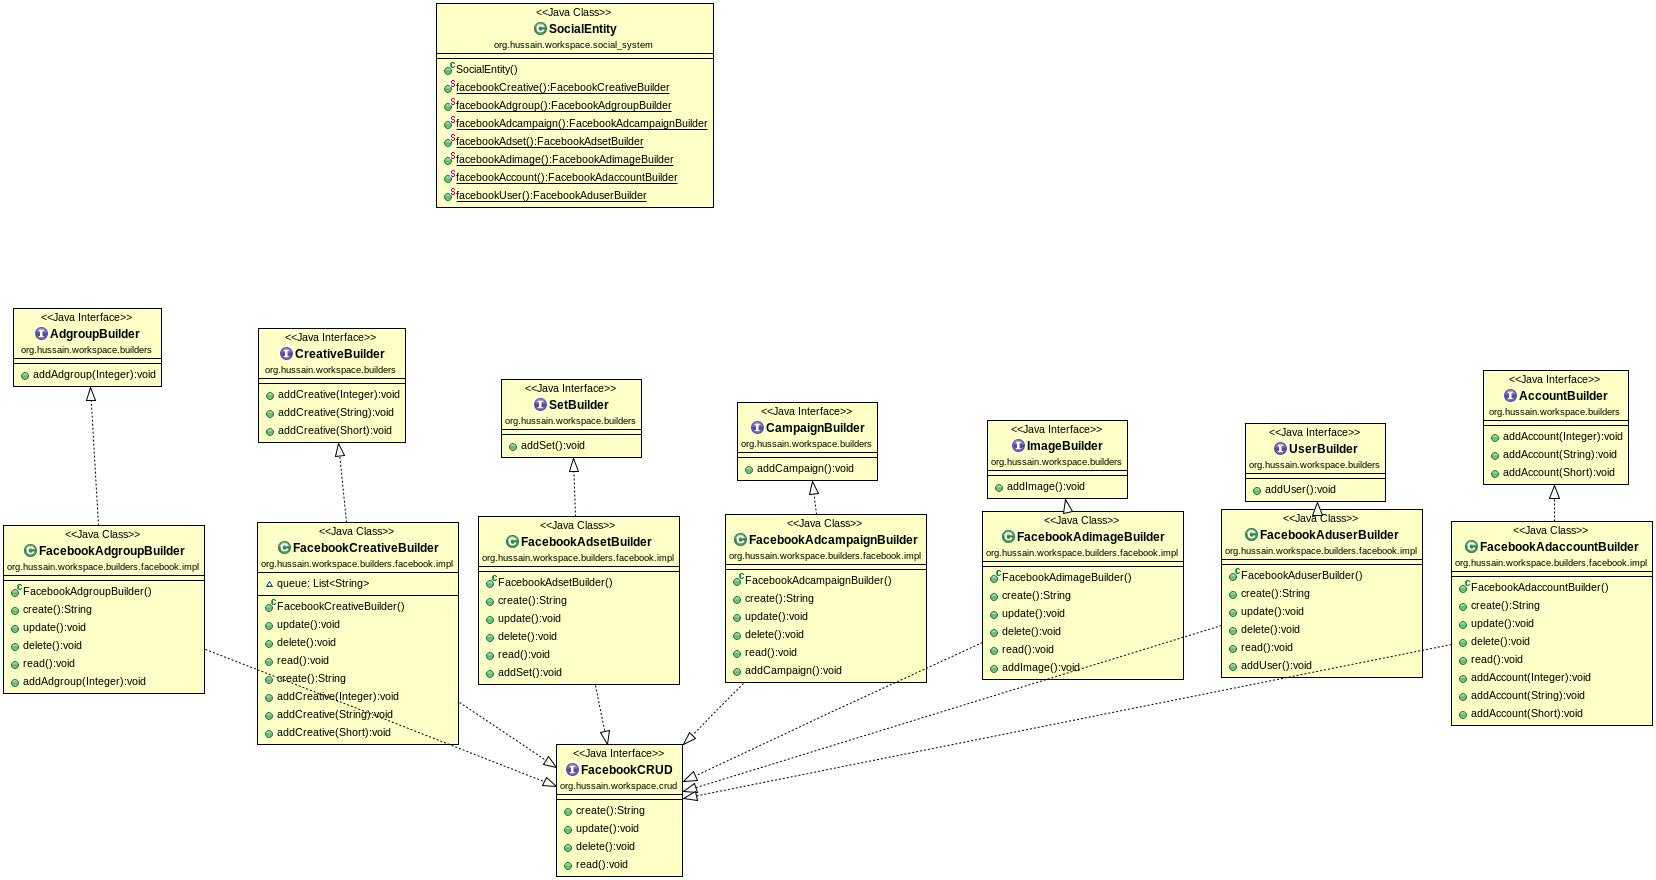
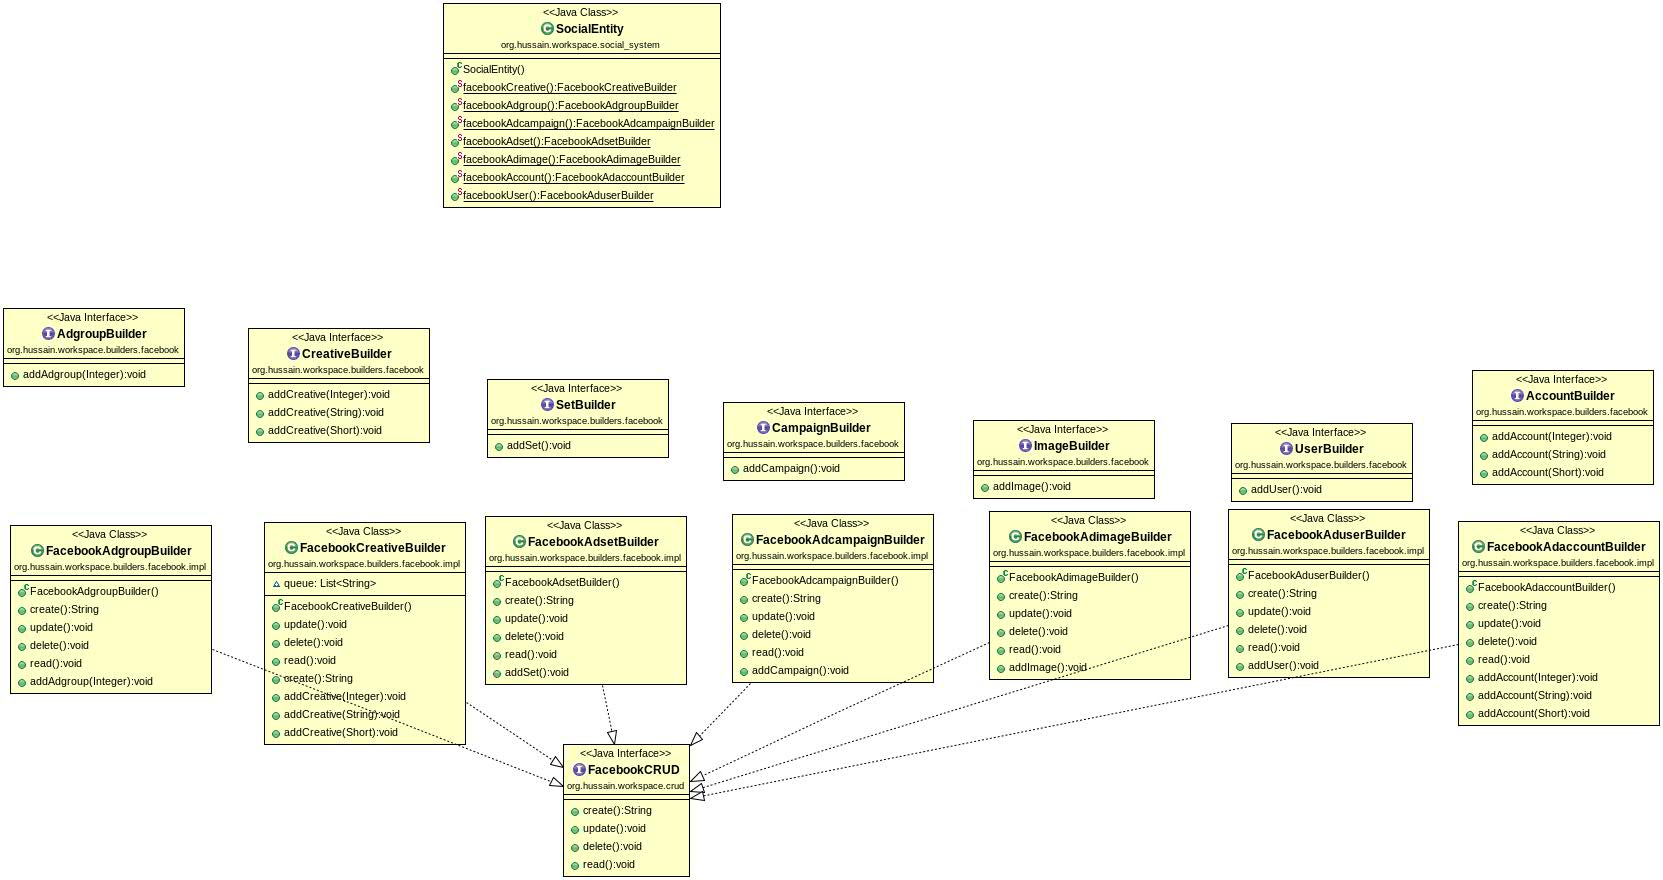
Created Social-System Project to connect Facebook Ads API.

diff --git a/social-system/src/main/java/org/hussain/workspace/social_system/SocialEntity.java b/social-system/src/main/java/org/hussain/workspace/social_system/SocialEntity.java
@@ -1,12 +1,12 @@
 package org.hussain.workspace.social_system;
 
-import org.hussain.workspace.builders.facebook.facebook.impl.FacebookAdaccountBuilder;
-import org.hussain.workspace.builders.facebook.facebook.impl.FacebookAdcampaignBuilder;
-import org.hussain.workspace.builders.facebook.facebook.impl.FacebookAdgroupBuilder;
-import org.hussain.workspace.builders.facebook.facebook.impl.FacebookAdimageBuilder;
-import org.hussain.workspace.builders.facebook.facebook.impl.FacebookAdsetBuilder;
-import org.hussain.workspace.builders.facebook.facebook.impl.FacebookAduserBuilder;
-import org.hussain.workspace.builders.facebook.facebook.impl.FacebookCreativeBuilder;
+import org.hussain.workspace.builders.facebook.impl.FacebookAdaccountBuilder;
+import org.hussain.workspace.builders.facebook.impl.FacebookAdcampaignBuilder;
+import org.hussain.workspace.builders.facebook.impl.FacebookAdgroupBuilder;
+import org.hussain.workspace.builders.facebook.impl.FacebookAdimageBuilder;
+import org.hussain.workspace.builders.facebook.impl.FacebookAdsetBuilder;
+import org.hussain.workspace.builders.facebook.impl.FacebookAduserBuilder;
+import org.hussain.workspace.builders.facebook.impl.FacebookCreativeBuilder;
 
 public class SocialEntity {
 	public static FacebookCreativeBuilder facebookCreative() {

diff --git a/social-system/src/main/java/org/hussain/workspace/builders/facebook/impl/FacebookAdgroupBuilder.java b/social-system/src/main/java/org/hussain/workspace/builders/facebook/impl/FacebookAdgroupBuilder.java
@@ -1,9 +1,9 @@
-package org.hussain.workspace.builders.facebook.facebook.impl;
+package org.hussain.workspace.builders.facebook.impl;
 
-import org.hussain.workspace.builders.facebook.CampaignBuilder;
+import org.hussain.workspace.builders.facebook.AdgroupBuilder;
 import org.hussain.workspace.crud.FacebookCRUD;
 
-public class FacebookAdcampaignBuilder implements FacebookCRUD, CampaignBuilder{
+public class FacebookAdgroupBuilder implements FacebookCRUD, AdgroupBuilder {
 
 	public String create() {
 		// TODO Auto-generated method stub
@@ -12,22 +12,22 @@ public class FacebookAdcampaignBuilder implements FacebookCRUD, CampaignBuilder{
 
 	public void update() {
 		// TODO Auto-generated method stub
-		
+
 	}
 
 	public void delete() {
 		// TODO Auto-generated method stub
-		
+
 	}
 
 	public void read() {
 		// TODO Auto-generated method stub
-		
+
 	}
 
-	public void addCampaign() {
+	public void addAdgroup(Integer a) {
 		// TODO Auto-generated method stub
-		
+
 	}
 
 }

diff --git a/social-system/src/main/java/org/hussain/workspace/builders/facebook/impl/FacebookAdimageBuilder.java b/social-system/src/main/java/org/hussain/workspace/builders/facebook/impl/FacebookAdimageBuilder.java
@@ -1,9 +1,9 @@
-package org.hussain.workspace.builders.facebook.facebook.impl;
+package org.hussain.workspace.builders.facebook.impl;
 
-import org.hussain.workspace.builders.facebook.AdgroupBuilder;
+import org.hussain.workspace.builders.facebook.ImageBuilder;
 import org.hussain.workspace.crud.FacebookCRUD;
 
-public class FacebookAdgroupBuilder implements FacebookCRUD, AdgroupBuilder {
+public class FacebookAdimageBuilder implements FacebookCRUD, ImageBuilder{
 
 	public String create() {
 		// TODO Auto-generated method stub
@@ -12,22 +12,22 @@ public class FacebookAdgroupBuilder implements FacebookCRUD, AdgroupBuilder {
 
 	public void update() {
 		// TODO Auto-generated method stub
-
+		
 	}
 
 	public void delete() {
 		// TODO Auto-generated method stub
-
+		
 	}
 
 	public void read() {
 		// TODO Auto-generated method stub
-
+		
 	}
 
-	public void addAdgroup(Integer a) {
+	public void addImage() {
 		// TODO Auto-generated method stub
-
+		
 	}
 
 }

diff --git a/social-system/src/main/java/org/hussain/workspace/builders/facebook/impl/FacebookAdcampaignBuilder.java b/social-system/src/main/java/org/hussain/workspace/builders/facebook/impl/FacebookAdcampaignBuilder.java
@@ -1,9 +1,9 @@
-package org.hussain.workspace.builders.facebook.facebook.impl;
+package org.hussain.workspace.builders.facebook.impl;
 
-import org.hussain.workspace.builders.facebook.SetBuilder;
+import org.hussain.workspace.builders.facebook.CampaignBuilder;
 import org.hussain.workspace.crud.FacebookCRUD;
 
-public class FacebookAdsetBuilder implements FacebookCRUD, SetBuilder{
+public class FacebookAdcampaignBuilder implements FacebookCRUD, CampaignBuilder{
 
 	public String create() {
 		// TODO Auto-generated method stub
@@ -25,7 +25,7 @@ public class FacebookAdsetBuilder implements FacebookCRUD, SetBuilder{
 		
 	}
 
-	public void addSet() {
+	public void addCampaign() {
 		// TODO Auto-generated method stub
 		
 	}

diff --git a/social-system/src/main/java/org/hussain/workspace/builders/facebook/impl/FacebookAdsetBuilder.java b/social-system/src/main/java/org/hussain/workspace/builders/facebook/impl/FacebookAdsetBuilder.java
@@ -1,9 +1,9 @@
-package org.hussain.workspace.builders.facebook.facebook.impl;
+package org.hussain.workspace.builders.facebook.impl;
 
-import org.hussain.workspace.builders.facebook.ImageBuilder;
+import org.hussain.workspace.builders.facebook.SetBuilder;
 import org.hussain.workspace.crud.FacebookCRUD;
 
-public class FacebookAdimageBuilder implements FacebookCRUD, ImageBuilder{
+public class FacebookAdsetBuilder implements FacebookCRUD, SetBuilder{
 
 	public String create() {
 		// TODO Auto-generated method stub
@@ -25,7 +25,7 @@ public class FacebookAdimageBuilder implements FacebookCRUD, ImageBuilder{
 		
 	}
 
-	public void addImage() {
+	public void addSet() {
 		// TODO Auto-generated method stub
 		
 	}

diff --git a/social-system/src/test/java/org/hussain/workspace/social_system/CreativeBuilderTest.java b/social-system/src/test/java/org/hussain/workspace/social_system/CreativeBuilderTest.java
@@ -1,7 +1,7 @@
 package org.hussain.workspace.social_system;
 
-import org.hussain.workspace.builders.facebook.facebook.impl.FacebookAdgroupBuilder;
-import org.hussain.workspace.builders.facebook.facebook.impl.FacebookCreativeBuilder;
+import org.hussain.workspace.builders.facebook.impl.FacebookAdgroupBuilder;
+import org.hussain.workspace.builders.facebook.impl.FacebookCreativeBuilder;
 import org.hussain.workspace.social_system.SocialEntity;
 
 public class CreativeBuilderTest {

diff --git a/social-system/src/main/java/org/hussain/workspace/builders/facebook/impl/FacebookAdaccountBuilder.java b/social-system/src/main/java/org/hussain/workspace/builders/facebook/impl/FacebookAdaccountBuilder.java
@@ -1,4 +1,4 @@
-package org.hussain.workspace.builders.facebook.facebook.impl;
+package org.hussain.workspace.builders.facebook.impl;
 
 import org.hussain.workspace.builders.facebook.AccountBuilder;
 import org.hussain.workspace.crud.FacebookCRUD;

diff --git a/social-system/src/main/java/org/hussain/workspace/builders/facebook/impl/FacebookAduserBuilder.java b/social-system/src/main/java/org/hussain/workspace/builders/facebook/impl/FacebookAduserBuilder.java
@@ -1,4 +1,4 @@
-package org.hussain.workspace.builders.facebook.facebook.impl;
+package org.hussain.workspace.builders.facebook.impl;
 
 import org.hussain.workspace.builders.facebook.UserBuilder;
 import org.hussain.workspace.crud.FacebookCRUD;

diff --git a/social-system/src/main/java/org/hussain/workspace/builders/facebook/impl/FacebookCreativeBuilder.java b/social-system/src/main/java/org/hussain/workspace/builders/facebook/impl/FacebookCreativeBuilder.java
@@ -1,4 +1,4 @@
-package org.hussain.workspace.builders.facebook.facebook.impl;
+package org.hussain.workspace.builders.facebook.impl;
 
 import java.util.List;
 
